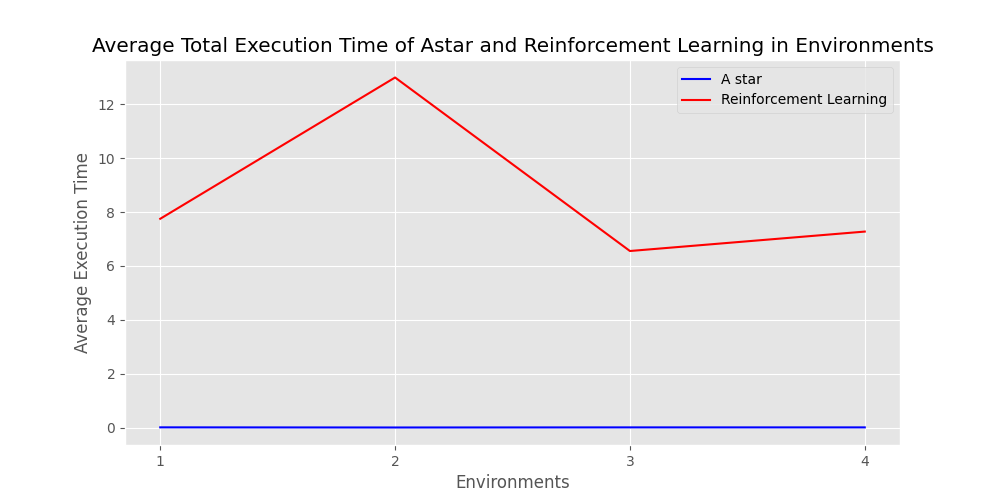
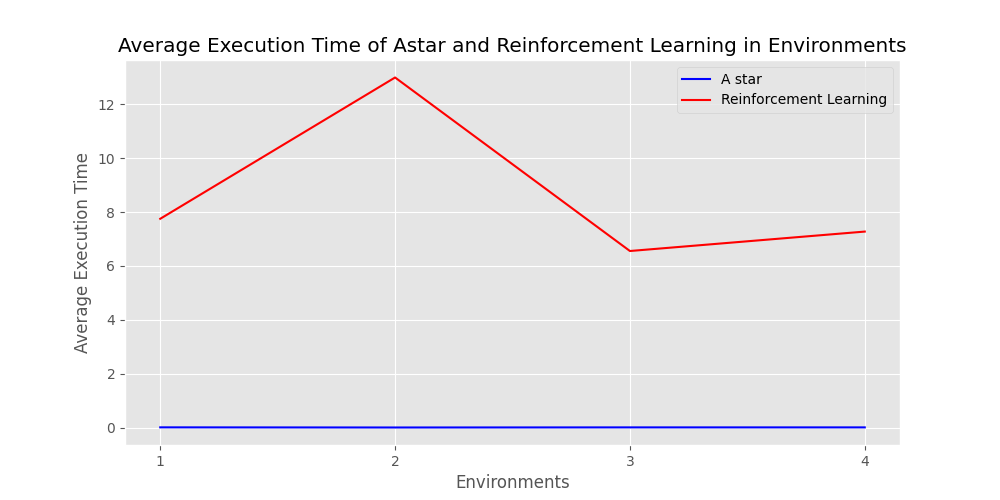
changing the plots headers

Changed region(s): [[0.093, 0.06, 0.93, 0.12]]

diff --git a/Plotting.py b/Plotting.py
@@ -182,7 +182,7 @@ def plot_average_astar_vs_reinforcement():
     
     plt.xlabel("Environments")
     plt.ylabel("Average Execution Time")
-    plt.title('Average Execution Time of Astar and Reinforcement Learning in Environments')
+    plt.title('Average Execution Time of Astar and Proposed Solution in Environments')
 
     plt.legend()    
     plt.show()
@@ -209,10 +209,10 @@ def plot_average_astar_vs_treinforcement():
     
     plt.xlabel("Environments")
     plt.ylabel("Average Execution Time")
-    plt.title('Average Total Execution Time of Astar and Reinforcement Learning in Environments')
+    plt.title('Average Execution Time of Astar and Reinforcement Learning in Environments')
 
     plt.legend()    
     plt.show()
 
 plot_astar_vs_reinforcement_1()
-plot_average_astar_vs_treinforcement()
+plot_average_astar_vs_reinforcement()
